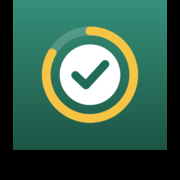
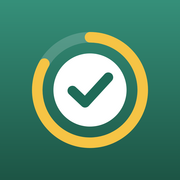
Ana ekran ikonu kareyi tam dolduruyor (saydam/siyah bant yok), maskable ikon
Claude-Session: https://claude.ai/code/session_016SwHpB5zoF2XSd4BNNiXWv

diff --git a/public/sw.js b/public/sw.js
@@ -1,6 +1,6 @@
 // Sesli Asistan service worker: çevrimdışı açılış + plan hatırlatma bildirimleri.
 // Önbellek yalnızca yayında açık (?dev=1 ile kaydedilirse kapalı; geliştirmede eski dosya sorunu olmasın).
-const VERSION = "sa-v11";
+const VERSION = "sa-v12";
 const PAGES_CACHE = `${VERSION}-pages`;
 const STATIC_CACHE = `${VERSION}-static`;
 const PAGES = ["/", "/plans", "/tasks", "/notes", "/receipts", "/calendar", "/schedule", "/staff", "/login"];

diff --git a/src/app/manifest.js b/src/app/manifest.js
@@ -9,6 +9,7 @@ export default function manifest() {
         icons: [
             { src: "/icons/icon-192.png", sizes: "192x192", type: "image/png" },
             { src: "/icons/icon-512.png", sizes: "512x512", type: "image/png" },
+            { src: "/icons/icon-512.png", sizes: "512x512", type: "image/png", purpose: "maskable" },
         ],
     };
 }

diff --git a/notlar/yeni/2026-10-08-ikon-tam-kare.md b/notlar/yeni/2026-10-08-ikon-tam-kare.md
@@ -1,0 +1,5 @@
+## Nerede kaldım
+- Ana ekran ikonu kareyi tam doldurmuyordu (Seyhun: "çok kötü bir tasarım var, karenin içine oturmalı, pikseli yüksek olmalı"; iPhone'da ikonun altında ve sağında siyah bant vardı): yeni logonun PNG'leri yanlış boyutta çizilmişti (görsel kenara kaymış, kalan yer saydam; iPhone saydamı siyah gösteriyor). İkonlar 1024 px'ten yeniden üretildi: `src/app/apple-icon.png` (180), `public/icons/icon-192.png`, `icon-512.png` köşeden köşeye dolu, saydamlık yok; manifeste `maskable` ikon eklendi; `public/logo.png` ve favicon (16/32/48) da yeniden. Service worker `sa-v12`. Yeni ikon tasarımı için öneriler ayrı hazırlanıyor.
+
+## Sıradaki işler
+0. iPhone'da ikonu ana ekrandan sil, Safari'de sesliasistan.netlify.app'i aç, Paylaş › Ana Ekrana Ekle; ikon kareyi kenardan kenara doldurmalı.
